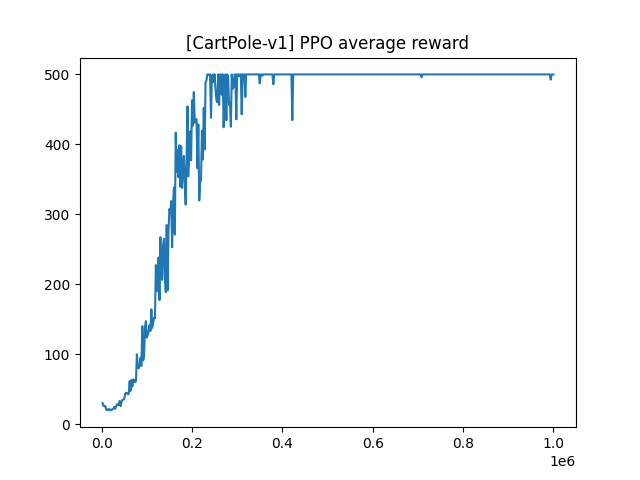
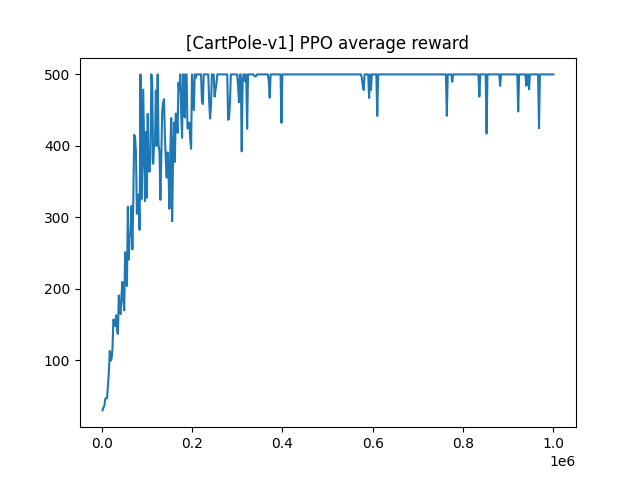
improve parameters

diff --git a/algos/discrete_ppo.py b/algos/discrete_ppo.py
@@ -38,12 +38,12 @@ ENV_CONFIG = {
             batch_count=25,
             rollout_len=2000,
             discount_rate=0.99,
-            advantage_rate=0,
+            advantage_rate=0.95,
             num_minibatches=2,
-            update_epochs=10,
-            actor_learning_rate=0.0001,
+            update_epochs=15,
+            actor_learning_rate=0.0002,
             actor_clip=0.2,
-            critic_learning_rate=0.002,
+            critic_learning_rate=0.008,
             adam_eps=1e-5,
         ),
     },
